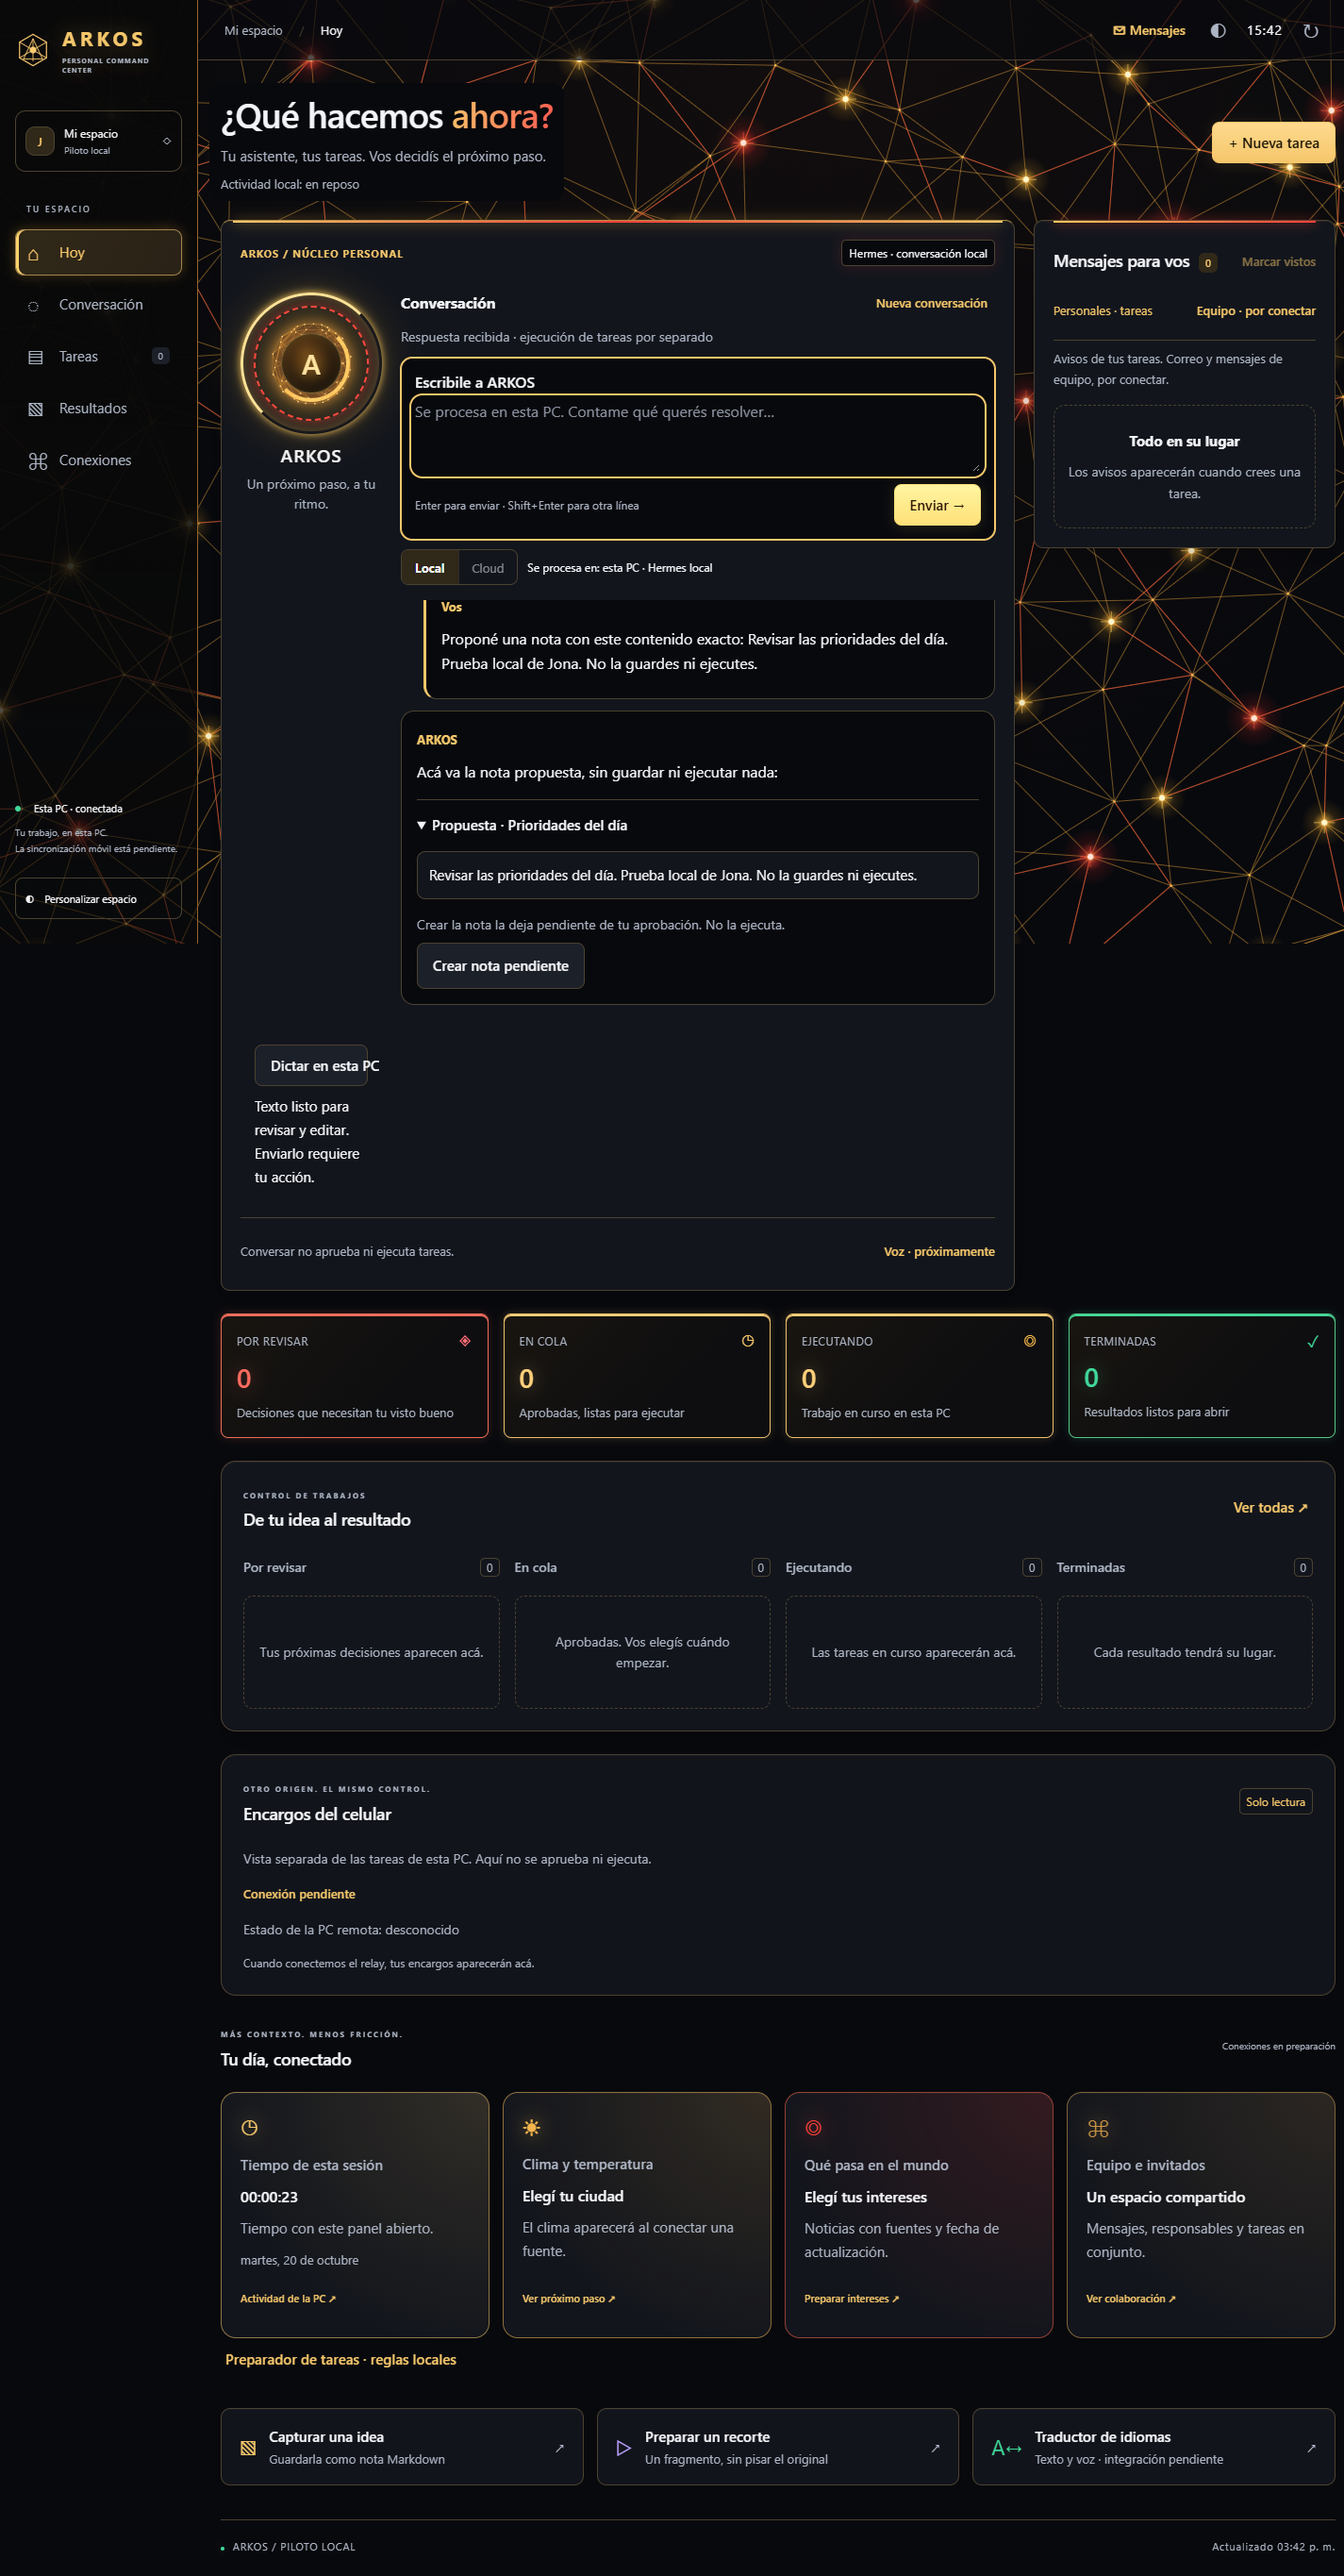
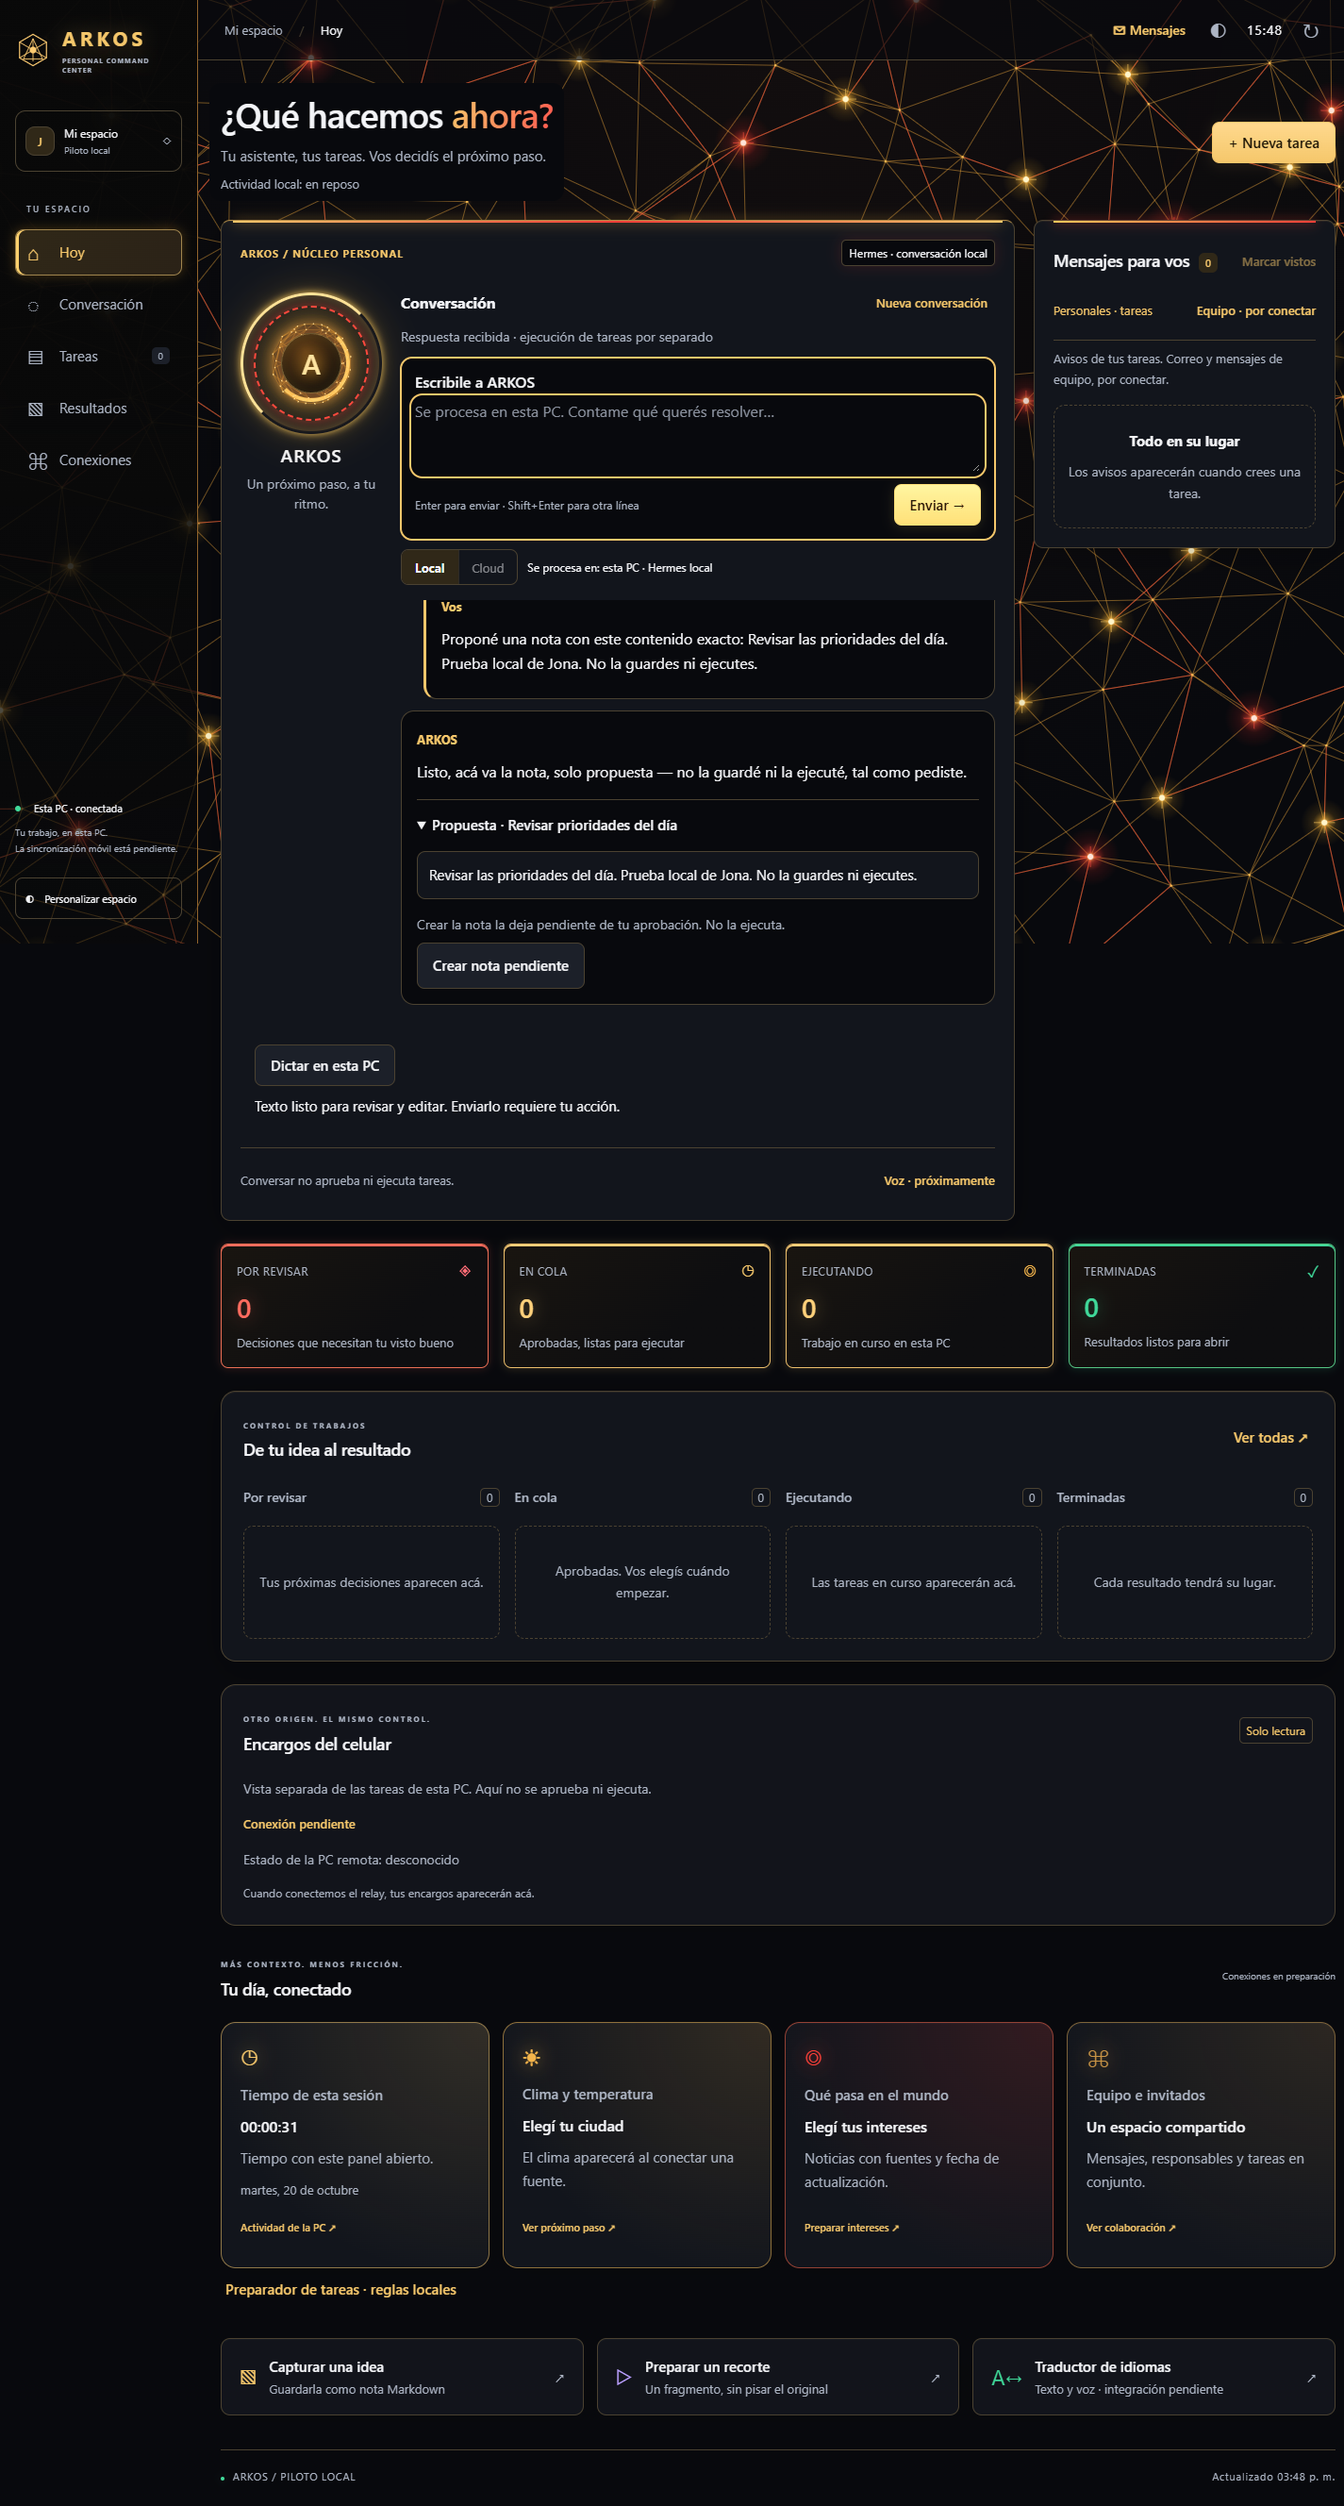
Keep dictation controls readable across desktop columns

diff --git a/arkos_pilot/web/style.css b/arkos_pilot/web/style.css
@@ -336,4 +336,4 @@ html[data-processing=cloud] .processing-where{border-left:3px solid var(--pink);
 .chat-outcome .outcome-detail{display:block;margin-top:6px;color:var(--text)}
 @media (max-width:560px){.cloud-terms{grid-template-columns:1fr;gap:2px}.cloud-terms dd{margin-bottom:8px}.processing-where{flex-basis:100%}}
 
-.dictation-controls{display:flex;flex-wrap:wrap;gap:.6rem;padding:1rem}.dictation-controls p{flex-basis:100%;margin:0;overflow-wrap:anywhere}
+.dictation-controls{grid-column:1/-1;min-width:0;display:flex;flex-wrap:wrap;gap:.6rem;padding:1rem}.dictation-controls p{flex-basis:100%;margin:0;overflow-wrap:anywhere}

diff --git a/docs/daily-flow-evidence/ACCEPTANCE.md b/docs/daily-flow-evidence/ACCEPTANCE.md
@@ -23,14 +23,14 @@ Sin acceso Engram en esta sesión: este documento es el handoff saneado.
   Qwen local existente → propuesta del contrato → nota pendiente → rechazo de ejecución
   anticipada y de fingerprint inválido → aprobación → ejecución → archivo exacto
   (con terminador CRLF de Windows).
-- Latencias individuales del segundo ensayo: transcripción 2,941 s; respuesta con
-  propuesta 12,539 s; ejecución observada 0,162 s. No son percentiles ni una validación
+- Latencias individuales del ensayo final: transcripción 2,953 s; respuesta con
+  propuesta 20,752 s; ejecución observada 0,156 s. El ensayo anterior fue 2,941 / 12,539 / 0,162 s. No son percentiles ni una validación
   estadística de rendimiento. El primer ensayo descubrió un error de expectativa LF
   del test y una frase sintética mal codificada; se corrigió el harness, no la cola.
 - Captura descartada libera micrófono; móvil sin desbordamiento. Capturas sin clave.
 - Regresiones sintéticas de navegador del chat existente: PASS, incluyendo cancelación,
   XSS, propuestas, doble clic, estados, relay y presentación. Separadas del modelo real.
-- Siete tests nuevos de backend y prueba Node del ciclo de captura: PASS.
+- Suite local completa: 240 tests, 218 aprobados y 22 omitidos por SDK Cloud ausente; no se instaló. Siete tests nuevos de backend y prueba Node del ciclo de captura: PASS.
 - Los cuatro archivos modificados de Hermes mantienen su diff anterior; no se editaron.
 
 ## Comandos de verificación
@@ -58,3 +58,4 @@ builder usa blobs comprometidos, no archivos sueltos del working tree.
   worker acotado por dictado, sin mantener otro modelo residente.
 - No hay voz de salida, herramientas nuevas, proveedor remoto ni ejecución libre.
 - CI y SHA final se informan en el PR; este registro no presume sus resultados.
+
